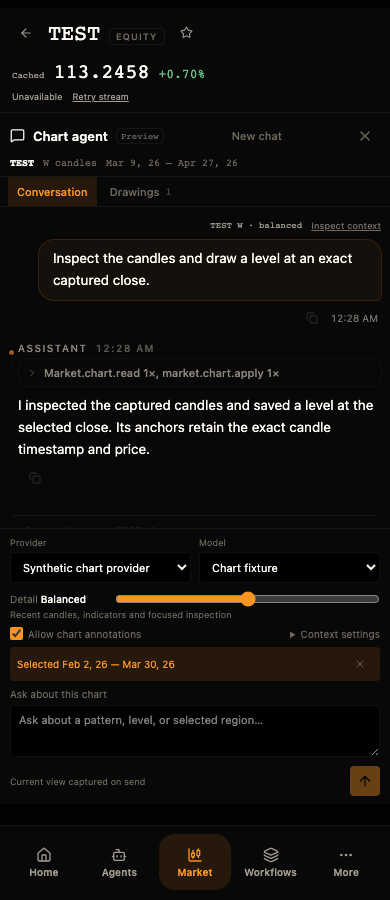
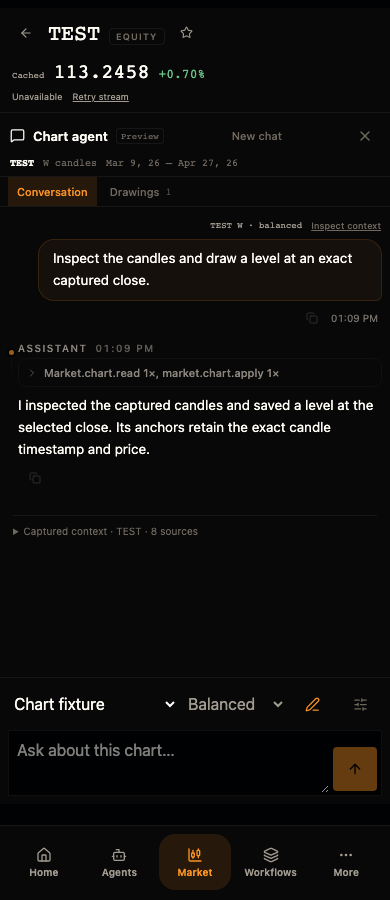
refactor(market): compact chart agent composer controls
Replace stacked runtime fields and the detail slider with one control row. Keep model, detail and annotations directly accessible; move provider and account context into the existing Market popover and place Send/Stop beside the message field.

Verify desktop and 320/390px layouts, focus and dismissal, provider locking and context opt-in. Type checking, build, 27 chart tests and the offline chart browser flow pass. Refresh README screenshots using synthetic data.

diff --git a/src/copenet/host/frontend/src/sections/market/chartAgent/ChartAgentComposer.tsx b/src/copenet/host/frontend/src/sections/market/chartAgent/ChartAgentComposer.tsx
@@ -1,0 +1,74 @@
+import { useEffect, useRef, useState } from 'react';
+import { ArrowUp, PenLine, SlidersHorizontal, Square, X } from 'lucide-react';
+import { useAppStore } from '../../../store/useAppStore';
+import { ChartPopoverShell } from '../chartPopoverShell';
+import type { useChartConversation } from './useChartConversation';
+import type { ChartWorkspaceController } from './useChartWorkspace';
+import type { ChartDetail } from './types';
+
+const DETAIL_COPY = { quick: 'Compact context · precise reads on demand', balanced: 'Recent candles, indicators and focused inspection', deep: 'Wider history and a larger evidence budget' };
+function date(value: number) { return new Date(value * 1000).toLocaleDateString(undefined, { month: 'short', day: 'numeric', year: '2-digit', timeZone: 'UTC' }); }
+
+export function ChartAgentComposer({ conversation, workspace, onSend }: {
+  conversation: ReturnType<typeof useChartConversation>;
+  workspace: ChartWorkspaceController;
+  onSend: () => void;
+}) {
+  const connection = useAppStore((state) => state.wsStatus);
+  const [settingsOpen, setSettingsOpen] = useState(false);
+  const settingsAnchor = useRef<HTMLButtonElement>(null);
+  const settingsBody = useRef<HTMLDivElement>(null);
+  useEffect(() => { if (settingsOpen && workspace.open) settingsBody.current?.focus(); }, [settingsOpen, workspace.open]);
+  const disabled = conversation.sending || Boolean(conversation.activeRun) || !workspace.document || connection !== 'connected' || Boolean(conversation.session?.archived);
+  const providerName = conversation.providers.find((provider) => provider.id === conversation.provider)?.displayName ?? conversation.provider;
+  const modelName = conversation.models.find((model) => model.id === conversation.model)?.displayName ?? conversation.model ?? 'Provider default';
+  const closeSettings = () => {
+    if (settingsBody.current?.closest('.tw-pop')?.contains(document.activeElement)) settingsAnchor.current?.focus();
+    setSettingsOpen(false);
+  };
+  const status = connection !== 'connected' ? 'Host disconnected' : conversation.session?.archived ? 'Session archived' : conversation.sending ? 'Capturing chart…' : null;
+
+  return <form className="ca-composer" onSubmit={(event) => { event.preventDefault(); if (!disabled) onSend(); }}>
+    <div className="ca-controls">
+      <select className="ca-model" aria-label="Chart agent model" title={`${providerName} · ${modelName}`} value={conversation.model ?? ''}
+        disabled={Boolean(conversation.activeRun) || conversation.sending} onChange={(event) => conversation.changeModel(event.target.value)}>
+        <option value="">Provider default</option>
+        {conversation.model && !conversation.models.some((model) => model.id === conversation.model) && <option value={conversation.model}>{conversation.model}</option>}
+        {conversation.models.map((model) => <option key={model.id} value={model.id}>{model.displayName}</option>)}
+      </select>
+      <select className="ca-detail-select" aria-label="Chart context detail" title={DETAIL_COPY[conversation.detail]} value={conversation.detail}
+        onChange={(event) => conversation.setDetail(event.target.value as ChartDetail)}>
+        <option value="quick">Quick</option><option value="balanced">Balanced</option><option value="deep">Deep</option>
+      </select>
+      <button type="button" className="ca-annotation-toggle" aria-label="Allow chart annotations" aria-pressed={conversation.access === 'annotate'}
+        title={conversation.access === 'annotate' ? 'Chart annotations on' : 'Read only · chart annotations off'}
+        onClick={() => conversation.setAccess(conversation.access === 'annotate' ? 'read' : 'annotate')}><PenLine size={15} /></button>
+      <button type="button" ref={settingsAnchor} aria-label="Chart agent settings" aria-expanded={settingsOpen && workspace.open} aria-haspopup="dialog"
+        title="Provider and context settings" data-account-context={workspace.includeAccountContext}
+        onClick={() => setSettingsOpen(!settingsOpen)}><SlidersHorizontal size={15} />{workspace.includeAccountContext && <span className="ca-account-dot" aria-label="Account context included" />}</button>
+    </div>
+    <ChartPopoverShell anchor={settingsAnchor} open={settingsOpen && workspace.open} onClose={closeSettings} title="Chart agent settings" width={300}>
+      <div className="ca-settings" ref={settingsBody} role="dialog" aria-label="Chart agent settings" tabIndex={-1}>
+        <label>Provider<select aria-label="Chart agent provider" value={conversation.provider} disabled={Boolean(conversation.sessionKey) || conversation.sending}
+          onChange={(event) => conversation.changeProvider(event.target.value)}>
+          {conversation.providers.map((provider) => <option key={provider.id} value={provider.id} disabled={!provider.available}>{provider.displayName}</option>)}
+        </select></label>
+        {conversation.sessionKey && <small>Provider is fixed for this conversation. Start a new chat to change it.</small>}
+        <p><strong>{conversation.detail} detail</strong><br />{DETAIL_COPY[conversation.detail]}</p>
+        <label className="ca-setting-check"><input type="checkbox" checked={workspace.includeAccountContext} onChange={(event) => workspace.setIncludeAccountContext(event.target.checked)} />Include new account context</label>
+        <small>Earlier conversation, drawings and profile context are retained.</small>
+        <small>Current chart view is captured when you send.</small>
+      </div>
+    </ChartPopoverShell>
+    {workspace.selection && <div className="ca-selection">Selected {date(workspace.selection.from)} — {date(workspace.selection.to)}<button type="button" aria-label="Clear chart selection" onClick={() => workspace.setSelection(null)}><X size={12} /></button></div>}
+    <div className="ca-message-input">
+      <label className="sr-only" htmlFor="chart-question">Ask about this chart</label>
+      <textarea id="chart-question" value={conversation.input} onChange={(event) => conversation.setInput(event.target.value)} placeholder="Ask about this chart…" rows={2}
+        onKeyDown={(event) => { if (event.key === 'Enter' && !event.shiftKey && !event.nativeEvent.isComposing) { event.preventDefault(); if (!disabled) onSend(); } }} />
+      {conversation.activeRun ? <button type="button" aria-label="Stop chart agent" title="Stop chart agent" onClick={() => void conversation.stop()}><Square size={15} /></button>
+        : <button type="submit" aria-label="Send chart question" title="Send · current view captured" disabled={disabled || !conversation.input.trim()}><ArrowUp size={16} /></button>}
+    </div>
+    {status && <div className="ca-composer-status" role="status">{status}</div>}
+    {conversation.error && <div className="ca-error" role="alert">{conversation.error}<button type="button" onClick={conversation.resetSubmission}>Use current view for a new request</button></div>}
+  </form>;
+}

diff --git a/src/copenet/host/frontend/src/sections/market/chartAgent/ChartAgentPanel.tsx b/src/copenet/host/frontend/src/sections/market/chartAgent/ChartAgentPanel.tsx
@@ -1,5 +1,5 @@
 import { useEffect, useRef, useState, type CSSProperties, type PointerEvent } from 'react';
-import { ArrowUp, ChevronRight, MessageSquare, Square, X } from 'lucide-react';
+import { ChevronRight, MessageSquare, X } from 'lucide-react';
 import { MessageBubble } from '../../../components/MessageBubble';
 import { ApprovalRequestCard } from '../../../components/ApprovalRequestCard';
 import { InspectorDrawer } from '../../../components/runtime/InspectorDrawer';
@@ -7,11 +7,9 @@ import { useAppStore } from '../../../store/useAppStore';
 import { useChartConversation } from './useChartConversation';
 import { ChartDrawingsPanel } from './ChartDrawingsPanel';
 import type { ChartWorkspaceController } from './useChartWorkspace';
-import type { ChartDetail } from './types';
+import { ChartAgentComposer } from './ChartAgentComposer';
 import './chartAgent.css';
 
-const DETAILS: ChartDetail[] = ['quick', 'balanced', 'deep'];
-const DETAIL_COPY = { quick: 'Compact context · precise reads on demand', balanced: 'Recent candles, indicators and focused inspection', deep: 'Wider history and a larger evidence budget' };
 function date(value: number | null) { return value == null ? '…' : new Date(value * 1000).toLocaleDateString(undefined, { month: 'short', day: 'numeric', year: '2-digit', timeZone: 'UTC' }); }
 
 export function ChartAgentPanel({ workspace, symbol, timeframe }: { workspace: ChartWorkspaceController; symbol: string; timeframe: string }) {
@@ -25,7 +23,6 @@ export function ChartAgentPanel({ workspace, symbol, timeframe }: { workspace: C
   const end = useRef<HTMLDivElement>(null);
   const approvals = useAppStore((state) => state.pendingApprovalsById);
   const inspect = useAppStore((state) => state.setInspectorTarget);
-  const connection = useAppStore((state) => state.wsStatus);
   const pendingApproval = Object.values(approvals).find((approval) => approval.sessionKey === conversation.sessionKey && approval.status === 'pending');
   useEffect(() => { if (workspace.selectedObjectId) setTab('drawings'); }, [workspace.selectedObjectId]);
   useEffect(() => { end.current?.scrollIntoView({ block: 'nearest' }); }, [conversation.messages.length, conversation.activeRun]);
@@ -34,7 +31,6 @@ export function ChartAgentPanel({ workspace, symbol, timeframe }: { workspace: C
     const next = Math.min(640, Math.max(320, resizeStart.current.width + resizeStart.current.x - event.clientX));
     setWidth(next); localStorage.setItem('copenet.chart.panelWidth', String(next));
   };
-  const disabled = conversation.sending || Boolean(conversation.activeRun) || !workspace.document || connection !== 'connected' || Boolean(conversation.session?.archived);
   const captured = conversation.lastCapture;
 
   return <>
@@ -78,32 +74,7 @@ export function ChartAgentPanel({ workspace, symbol, timeframe }: { workspace: C
           <div ref={end} />
         </>}
       </div>
-      <form className="ca-composer" onSubmit={(event) => { event.preventDefault(); setTab('chat'); void conversation.send(); }}>
-        <div className="ca-runtime">
-          <label>Provider<select aria-label="Chart agent provider" value={conversation.provider} disabled={Boolean(conversation.sessionKey) || conversation.sending} onChange={(event) => conversation.changeProvider(event.target.value)}>
-            {conversation.providers.map((provider) => <option key={provider.id} value={provider.id} disabled={!provider.available}>{provider.displayName}</option>)}
-          </select></label>
-          <label>Model<select aria-label="Chart agent model" value={conversation.model ?? ''} disabled={Boolean(conversation.activeRun) || conversation.sending} onChange={(event) => conversation.changeModel(event.target.value)}>
-            <option value="">Provider default</option>{conversation.model && !conversation.models.some((model) => model.id === conversation.model) && <option value={conversation.model}>{conversation.model}</option>}
-            {conversation.models.map((model) => <option key={model.id} value={model.id}>{model.displayName}</option>)}
-          </select></label>
-        </div>
-        <div className="ca-detail"><label htmlFor="chart-detail">Detail <strong>{conversation.detail}</strong></label>
-          <input id="chart-detail" type="range" min={0} max={2} step={1} value={DETAILS.indexOf(conversation.detail)} aria-valuetext={conversation.detail}
-            onChange={(event) => conversation.setDetail(DETAILS[Number(event.target.value)])} />
-          <small>{DETAIL_COPY[conversation.detail]}</small></div>
-        <div className="ca-access"><label><input type="checkbox" checked={conversation.access === 'annotate'} onChange={(event) => conversation.setAccess(event.target.checked ? 'annotate' : 'read')} /> Allow chart annotations</label>
-          <details><summary>Context settings</summary><label><input type="checkbox" checked={workspace.includeAccountContext} onChange={(event) => workspace.setIncludeAccountContext(event.target.checked)} /> Include new account context</label><small>Earlier conversation, drawings and profile context are retained.</small></details></div>
-        {workspace.selection && <div className="ca-selection">Selected {date(workspace.selection.from)} — {date(workspace.selection.to)}<button type="button" aria-label="Clear chart selection" onClick={() => workspace.setSelection(null)}><X size={12} /></button></div>}
-        <label className="ca-input-label" htmlFor="chart-question">Ask about this chart</label>
-        <textarea id="chart-question" value={conversation.input} onChange={(event) => conversation.setInput(event.target.value)} placeholder="Ask about a pattern, level, or selected region…" rows={2}
-          onKeyDown={(event) => { if (event.key === 'Enter' && !event.shiftKey && !event.nativeEvent.isComposing) { event.preventDefault(); if (!disabled) { setTab('chat'); void conversation.send(); } } }} />
-        {conversation.error && <div className="ca-error" role="alert">{conversation.error}<button type="button" onClick={conversation.resetSubmission}>Use current view for a new request</button></div>}
-        <div className="ca-send-row"><span>{connection !== 'connected' ? 'Host disconnected' : conversation.session?.archived ? 'Session archived' : conversation.sending ? 'Capturing chart…' : 'Current view captured on send'}</span>
-          {conversation.activeRun ? <button type="button" aria-label="Stop chart agent" onClick={() => void conversation.stop()}><Square size={14} /> Stop</button>
-            : <button type="submit" aria-label="Send chart question" disabled={disabled || !conversation.input.trim()}><ArrowUp size={16} /></button>}
-        </div>
-      </form>
+      <ChartAgentComposer conversation={conversation} workspace={workspace} onSend={() => { setTab('chat'); void conversation.send(); }} />
     </aside>
     {workspace.open && <InspectorDrawer />}
   </>;

diff --git a/src/copenet/host/frontend/src/sections/market/chartAgent/chartAgent.css b/src/copenet/host/frontend/src/sections/market/chartAgent/chartAgent.css
@@ -56,29 +56,41 @@
 .ca-evidence summary { cursor:pointer; }
 .ca-evidence p { margin:7px 0; overflow-wrap:anywhere; }
 .ca-evidence>div { display:flex; justify-content:space-between; gap:8px; padding:3px 0; }
-.ca-composer { border-top:1px solid var(--mkt-seam); padding:8px 10px; flex-shrink:0; }
-.ca-runtime { display:flex; gap:8px; }
-.ca-runtime label { flex:1; min-width:0; font-size:9px; color:var(--mkt-dim); }
-.ca-panel :is(select,input:not([type=checkbox]):not([type=range]),textarea) { width:100%; padding:7px 8px; border:1px solid var(--mkt-seam); border-radius:4px; background:var(--mkt-ground); color:var(--mkt-text); font:11px var(--mkt-sans); }
-.ca-runtime select { margin-top:4px; text-overflow:ellipsis; }
-.ca-detail { display:grid; grid-template-columns:95px 1fr; align-items:center; gap:2px 10px; margin-top:8px; }
-.ca-detail label { color:var(--mkt-dim); font-size:10px; }
-.ca-detail strong { color:var(--mkt-text); text-transform:capitalize; font-weight:500; }
-.ca-detail input { width:100%; accent-color:var(--mkt-accent); }
-.ca-detail small { grid-column:1/-1; color:var(--mkt-dim); font-size:9px; }
-.ca-access { display:flex; flex-wrap:wrap; align-items:center; justify-content:space-between; gap:8px; padding:7px 0; font-size:10px; color:var(--mkt-dim); }
-.ca-access label { display:flex; gap:5px; align-items:center; }
-.ca-access input { accent-color:var(--mkt-accent); }
-.ca-access details[open] { width:100%; }
-.ca-access summary { cursor:pointer; }
-.ca-access details label { padding-top:8px; }
-.ca-access small { display:block; padding-top:5px; line-height:1.5; }
-.ca-input-label { display:block; font-size:10px; color:var(--mkt-dim); margin-bottom:5px; }
-.ca-panel textarea { resize:vertical; min-height:52px; max-height:160px; line-height:1.55; }
-.ca-selection { display:flex; align-items:center; justify-content:space-between; padding:4px 7px; margin-bottom:7px; background:var(--mkt-accent-soft); color:var(--mkt-accent); font-size:10px; border-radius:4px; }
-.ca-send-row { display:flex; justify-content:space-between; align-items:center; gap:10px; margin-top:6px; }
-.ca-send-row span { font-size:9px; color:var(--mkt-dim); }
-.ca-send-row button { background:var(--mkt-accent); color:var(--mkt-ground); min-width:30px; }
+.ca-composer { border-top:1px solid var(--mkt-seam); padding:4px 8px 8px; flex-shrink:0; }
+.ca-panel :where(select,input:not([type=checkbox]):not([type=range]),textarea) { width:100%; padding:7px 8px; border:1px solid var(--mkt-seam); border-radius:4px; background:var(--mkt-ground); color:var(--mkt-text); font:11px var(--mkt-sans); }
+.ca-controls { display:flex; align-items:center; gap:4px; min-width:0; margin-bottom:4px; }
+.ca-controls select { width:auto; min-width:0; height:32px; padding:4px 2px; border:0; border-radius:0; background:transparent; color:var(--mkt-muted); text-overflow:ellipsis; cursor:pointer; }
+.ca-controls .ca-model { flex:1; color:var(--mkt-text); }
+.ca-controls .ca-detail-select { flex:0 0 88px; }
+.ca-controls button { position:relative; flex:0 0 32px; height:32px; }
+.ca-controls .ca-annotation-toggle[aria-pressed=true] { color:var(--mkt-accent); }
+.ca-controls button[aria-expanded=true] { background:var(--mkt-raise); color:var(--mkt-text); }
+.ca-account-dot { position:absolute; top:5px; right:4px; width:4px; height:4px; border-radius:50%; background:var(--mkt-accent); }
+.ca-controls select:disabled { opacity:.5; cursor:default; }
+.ca-message-input { display:flex; align-items:flex-end; gap:4px; padding:2px; border:1px solid var(--mkt-seam); background:var(--mkt-ground); }
+.ca-message-input:focus-within { border-color:var(--mkt-accent); }
+.ca-message-input textarea:focus-visible { outline:none; }
+.ca-message-input textarea { flex:1; min-width:0; width:0; resize:vertical; min-height:48px; max-height:128px; padding:5px 6px; border:0; background:transparent; line-height:1.55; }
+.ca-message-input button { flex:0 0 32px; height:32px; margin:0 2px 2px 0; background:var(--mkt-accent); color:var(--mkt-ground); }
+.ca-message-input button[aria-label="Stop chart agent"] { background:var(--mkt-raise); color:var(--mkt-text); }
+.ca-composer-status { padding:5px 0 0; color:var(--mkt-dim); font-size:10px; }
+.ca-selection { display:flex; align-items:center; justify-content:space-between; gap:4px; padding:2px 6px; margin-bottom:4px; background:var(--mkt-accent-soft); color:var(--mkt-accent); font-size:10px; }
+.ca-settings { display:flex; flex-direction:column; gap:10px; color:var(--mkt-muted); font:11px/1.5 var(--mkt-sans); max-height:60dvh; overflow:auto; }
+.ca-settings select { display:block; width:100%; margin-top:4px; padding:8px; border:1px solid var(--mkt-seam); border-radius:0; background:var(--mkt-ground); color:var(--mkt-text); font:inherit; }
+.ca-settings p { margin:0; }
+.ca-settings strong { font-weight:500; text-transform:capitalize; color:var(--mkt-text); }
+.ca-settings small { font-size:10px; color:var(--mkt-dim); }
+.ca-setting-check { display:flex; align-items:center; gap:7px; min-height:32px; cursor:pointer; }
+.ca-setting-check input { accent-color:var(--mkt-accent); }
+.ca-settings :is(select,input):focus-visible { outline:2px solid var(--mkt-accent); outline-offset:2px; }
+@media (pointer:coarse), (max-width:600px) {
+  .ca-controls select { height:44px; font-size:16px; }
+  .ca-controls .ca-detail-select { flex-basis:104px; }
+  .ca-controls button,.ca-message-input button { flex-basis:44px; height:44px; }
+  .ca-message-input textarea { font-size:16px; min-height:58px; }
+  .ca-settings select { font-size:16px; }
+  .ca-setting-check { min-height:44px; }
+}
 .ca-error { padding:8px 12px; color:#e8897c; background:rgba(217,109,95,.07); font-size:11px; line-height:1.5; }
 .ca-error button { text-decoration:underline; }
 .ca-drawings { padding:10px 12px; }

diff --git a/scripts/verify_chart_agent.py b/scripts/verify_chart_agent.py
@@ -111,7 +111,7 @@ async def verify(browser, directory):
                                 transcript_store=TranscriptStore(root_dir=directory), sessions_dir=directory,
                                 providers={provider.name: provider})
     store = get_chart_store(orchestrator)
-    context = await browser.new_context(viewport={"width": 1600, "height": 1000}, has_touch=True)
+    context = await browser.new_context(viewport={"width": 1600, "height": 1000})
     errors, requests, captures, render_receipts = [], [], [], []
     tasks = set()
     documents = set()
@@ -248,7 +248,9 @@ async def verify(browser, directory):
             await page.mouse.click(stage["x"] + stage["width"] * fraction, stage["y"] + stage["height"] * 0.55)
         await expect(page.get_by_role("button", name="Clear chart selection", exact=True)).to_be_visible()
         await page.get_by_role("button", name="Select chart drawing", exact=True).click()
+        await page.get_by_role("button", name="Chart agent settings", exact=True).click()
         await page.get_by_label("Chart agent provider", exact=True).select_option("chart-test")
+        await page.get_by_role("button", name="Close Chart agent settings", exact=True).click()
         await page.get_by_label("Chart agent model", exact=True).select_option("chart-fixture")
         await page.get_by_label("Ask about this chart", exact=True).fill("Inspect the candles and draw a level at an exact captured close.")
         await page.get_by_role("button", name="Send chart question", exact=True).click()
@@ -284,9 +286,41 @@ async def verify(browser, directory):
                 await asyncio.sleep(0.05)
         assert store.document(document_id)["document"]["objects"][0]["label"] == "Operator level"
         await page.get_by_role("tab", name="Conversation", exact=True).click()
-        for width in (1100, 390):
+        await page.get_by_role("button", name="Clear chart selection", exact=True).click()
+        for width in (1100, 320, 390):
             await page.set_viewport_size({"width": width, "height": 900})
             assert await page.evaluate("document.documentElement.scrollWidth <= innerWidth"), f"Horizontal overflow at {width}px"
+            composer = page.locator('.ca-composer')
+            height = (await composer.bounding_box())['height']
+            if width <= 600:
+                assert await page.locator('#chart-question').evaluate("element => getComputedStyle(element).fontSize") == '16px', 'Phone input must not trigger iOS focus zoom'
+            assert height <= 128, f"Composer too tall at {width}px: {height}"
+            detail = page.get_by_label('Chart context detail', exact=True)
+            for value in ('quick', 'deep', 'balanced'):
+                await detail.select_option(value)
+                await expect(detail).to_have_value(value)
+            annotations = page.get_by_role('button', name='Allow chart annotations', exact=True)
+            await annotations.click()
+            await expect(annotations).to_have_attribute('aria-pressed', 'false')
+            await annotations.click()
+            await expect(annotations).to_have_attribute('aria-pressed', 'true')
+            settings = page.get_by_role('button', name='Chart agent settings', exact=True)
+            await settings.click()
+            await expect(page.get_by_label('Chart agent provider', exact=True)).to_be_disabled()
+            await expect(page.get_by_role('dialog', name='Chart agent settings')).to_be_focused()
+            account = page.get_by_label('Include new account context', exact=True)
+            await account.check()
+            await expect(settings).to_have_attribute('data-account-context', 'true')
+            await account.uncheck()
+            assert (await composer.bounding_box())['height'] == height, 'Settings must overlay, not consume chat space'
+            await page.keyboard.press('Escape')
+            await expect(settings).to_be_focused()
+            await expect(settings).to_have_attribute('aria-expanded', 'false')
+            await settings.click()
+            await page.get_by_label('Ask about this chart', exact=True).click()
+            await expect(settings).to_have_attribute('aria-expanded', 'false')
+            print(f'Composer at {width}px: {height}px; detail, annotation, provider lock, account opt-in, dismissal passed')
+            await page.get_by_role("tab", name="Conversation", exact=True).click()
             await page.screenshot(path=str(directory / f"chart-agent-{width}.png"))
         await page.screenshot(path=str(ROOT / "docs/imgs/market-chart-agent-mobile.png"), animations="disabled")
         # Real two-finger touch input on the phone layout must change the time viewport

diff --git a/docs/initiatives/chart-agent/DEMO.md b/docs/initiatives/chart-agent/DEMO.md
@@ -113,6 +113,13 @@ Frontend paths above are relative to `src/copenet/host`; core/host paths are rel
 
 ## Verification record
 
+- Compact composer: type checking, production build and 27 chart frontend tests pass.
+  Offline browser checks cover 320/390px phones and desktop, detail changes, annotation
+  toggling, provider lock, account opt-in, Escape/focus return and outside dismissal.
+  Idle composer height is 103px on desktop and about 127px on phones, with 44px touch
+  targets and 16px phone input text. Settings overlay the transcript without expanding
+  the composer. Screenshots use synthetic data.
+
 - CSV update: 76 targeted tests cover precision/null/missing-field round trips, quoted
   column names, nested/empty JSON, complete-row pagination, raw artifact retention,
   ordinary chart sessions/replay and delivery through all three harness tool loops.

diff --git a/README.md b/README.md
@@ -159,6 +159,8 @@ adapters. See the [demo guide and verification record](docs/initiatives/chart-ag
 
 On phones, chart and companion switch between full-width views. Pinch zoom keeps its
 chosen time range through viewport updates and background document refreshes.
+The compact composer keeps model, detail and drawing controls on one row, with provider
+and account-context options in a settings popover and Send/Stop beside the message field.
 
 <details>
 <summary>Mobile companion and chart zoom (synthetic demonstration data)</summary>
